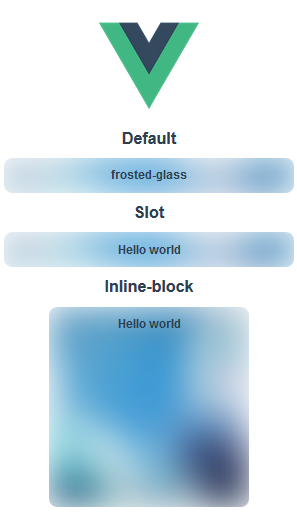
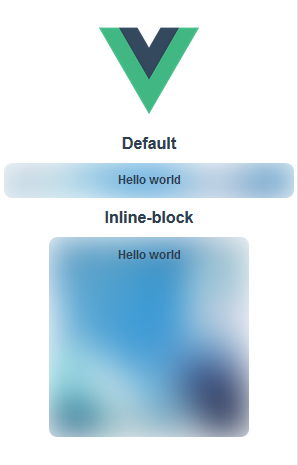
remove default slot content

diff --git a/src/components/FrostedGlass.vue b/src/components/FrostedGlass.vue
@@ -2,7 +2,6 @@
   <div class="__frosted-glass-wrap-box__">
     <div class="window-glass" :style="style_window_glass"></div>
     <slot>
-      <h2>{{ msg }}</h2>
     </slot>
   </div>
 </template>
@@ -12,10 +11,6 @@ import Vue from "vue";
 export default Vue.extend({
   name: "FrostedGlass",
   props: {
-    msg: {
-      type: String,
-      default: "frosted-glass"
-    },
     filter: {
       type: String,
       default: `blur(36px)`

diff --git a/src/views/Home.vue b/src/views/Home.vue
@@ -2,8 +2,6 @@
   <div class="home">
     <img alt="Vue logo" src="../assets/logo.png" />
     <h1>Default</h1>
-    <FrostedGlass backgroundImage="url(/assets/bg-1.png)" />
-    <h1>Slot</h1>
     <FrostedGlass backgroundImage="url(/assets/bg-1.png)">
       <h2>Hello world</h2>
     </FrostedGlass>

diff --git a/Readme.md b/Readme.md
@@ -19,8 +19,6 @@ npm install vue-frosted-glass
   <div class="home">
     <img alt="Vue logo" src="../assets/logo.png" />
     <h1>Default</h1>
-    <FrostedGlass background-image="url(/assets/bg-1.png)" />
-    <h1>Slot</h1>
     <FrostedGlass background-image="url(/assets/bg-1.png)">
       <h2>Hello world</h2>
     </FrostedGlass>
